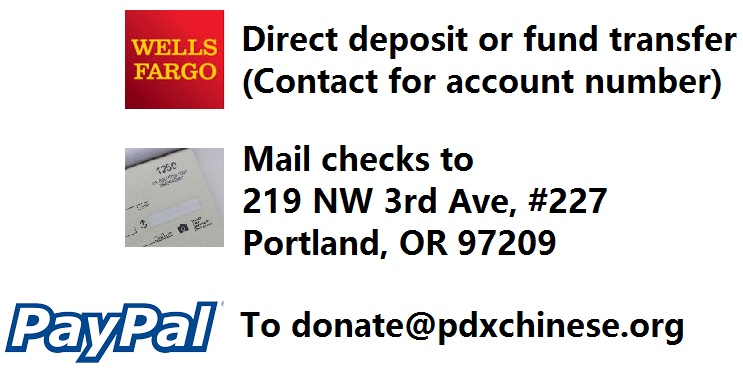
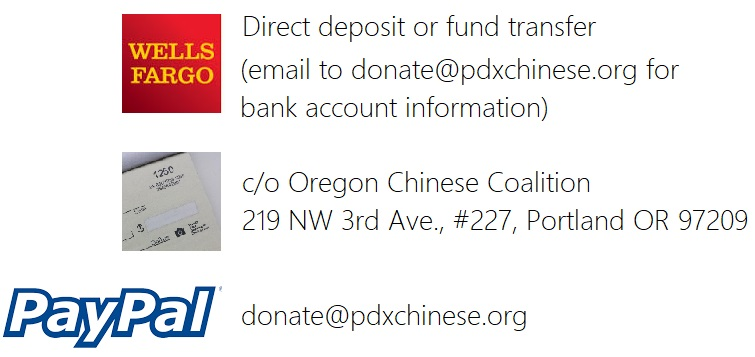
update donation note

Changed region(s): [[0.1548, 0.0, 0.9906, 0.3389], [0.1548, 0.3697, 0.9906, 0.7087], [0.0, 0.8011, 0.9287, 0.986]]

diff --git a/_pages/communityfund.md b/_pages/communityfund.md
@@ -17,7 +17,7 @@ Xiaohui Chen,
 Hui Du,
 Ge Liu,
 Guangchao Zhang,
-Liwen Zhang, 
+Liwen Zhang,
 Hongcheng Zhao
 
 # Victoria Ren Scholarship
@@ -28,7 +28,15 @@ Before the end of each school year, a five hundred dollar scholarship will be aw
 
 # How to Donate
 
-![]({{ site.url }}/assets/images/activities/donation2.jpg)
+Thank you for your generosity. Please make sure to (1) leave your email or other contact information, and (2) specify which fund the donation shall go to:
+
+Community fund
+
+Victoria Ren Scholarship
+
+Please choose the way for your most convenience:
+
+![]({{ site.url }}/assets/images/activities/donation.jpg)
 
 Credit Card will be available soon.
 (This will have 2.9% deduction from the donation by PayPal)
